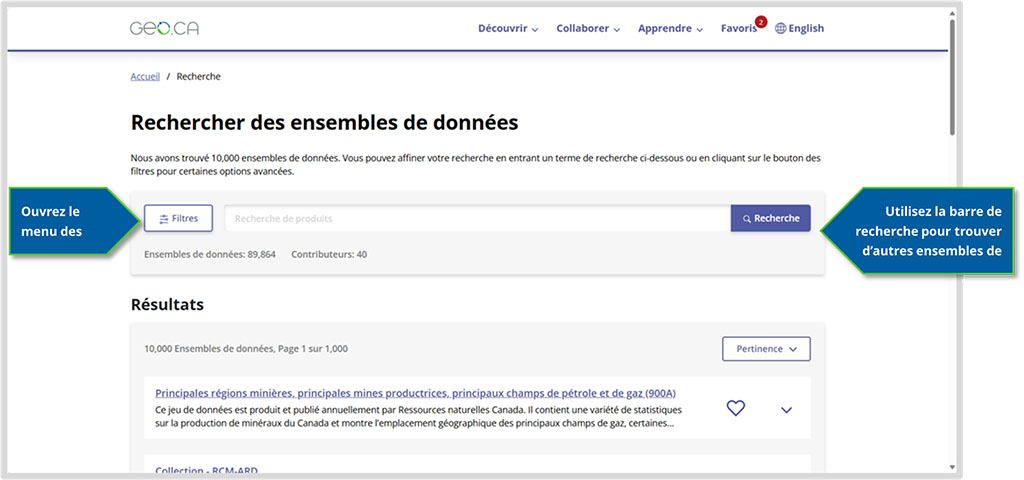
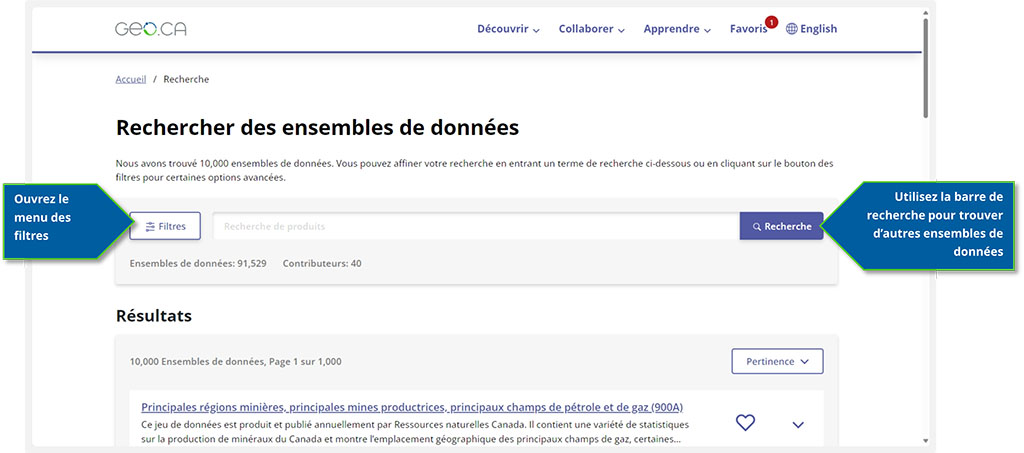
Updated/Added simply-static-1-1756398392

diff --git a/getting-started/index.html b/getting-started/index.html
@@ -691,7 +691,7 @@ body.elementor-page .elementor-widget-menu-anchor{margin-bottom:0}</style>		<div
 <script src="https://dev.geo.ca/wp-content/themes/geo/includes/cgp-mega-menu/vendor/dist/js/jquery-accessibleMegaMenu.min.js?ver=1.0" id="adobe-accessible-mega-menu-jquery-js"></script>
 <script src="https://dev.geo.ca/wp-content/plugins/elementor-cgp-widgets/assets/dist/js/cgp-video-min.js?ver=1.0.0" id="cgp-video-js"></script>
 <script src="https://dev.geo.ca/wp-content/themes/geo/includes/cgp-global/dist/js/cgp-global-min.js?ver=1.0" id="cgp-global-js"></script>
-<script id="eael-general-js-extra">var localize = {"ajaxurl":"https:\/\/dev.geo.ca\/wp-admin\/admin-ajax.php","nonce":"fcad406561","i18n":{"added":"Added ","compare":"Compare","loading":"Loading..."},"eael_translate_text":{"required_text":"is a required field","invalid_text":"Invalid","billing_text":"Billing","shipping_text":"Shipping","fg_mfp_counter_text":"of"},"page_permalink":"https:\/\/dev.geo.ca\/getting-started\/","cart_redirectition":"","cart_page_url":"","el_breakpoints":{"mobile":{"label":"Mobile Portrait","value":767,"default_value":767,"direction":"max","is_enabled":true},"mobile_extra":{"label":"Mobile Landscape","value":880,"default_value":880,"direction":"max","is_enabled":false},"tablet":{"label":"Tablet Portrait","value":1024,"default_value":1024,"direction":"max","is_enabled":true},"tablet_extra":{"label":"Tablet Landscape","value":1200,"default_value":1200,"direction":"max","is_enabled":false},"laptop":{"label":"Laptop","value":1366,"default_value":1366,"direction":"max","is_enabled":false},"widescreen":{"label":"Widescreen","value":2400,"default_value":2400,"direction":"min","is_enabled":false}}};</script>
+<script id="eael-general-js-extra">var localize = {"ajaxurl":"https:\/\/dev.geo.ca\/wp-admin\/admin-ajax.php","nonce":"61e8a9eaff","i18n":{"added":"Added ","compare":"Compare","loading":"Loading..."},"eael_translate_text":{"required_text":"is a required field","invalid_text":"Invalid","billing_text":"Billing","shipping_text":"Shipping","fg_mfp_counter_text":"of"},"page_permalink":"https:\/\/dev.geo.ca\/getting-started\/","cart_redirectition":"","cart_page_url":"","el_breakpoints":{"mobile":{"label":"Mobile Portrait","value":767,"default_value":767,"direction":"max","is_enabled":true},"mobile_extra":{"label":"Mobile Landscape","value":880,"default_value":880,"direction":"max","is_enabled":false},"tablet":{"label":"Tablet Portrait","value":1024,"default_value":1024,"direction":"max","is_enabled":true},"tablet_extra":{"label":"Tablet Landscape","value":1200,"default_value":1200,"direction":"max","is_enabled":false},"laptop":{"label":"Laptop","value":1366,"default_value":1366,"direction":"max","is_enabled":false},"widescreen":{"label":"Widescreen","value":2400,"default_value":2400,"direction":"min","is_enabled":false}}};</script>
 <script src="https://dev.geo.ca/wp-content/plugins/essential-addons-for-elementor-lite/assets/front-end/js/view/general.min.js?ver=5.9.21" id="eael-general-js"></script>
 <script src="https://dev.geo.ca/wp-content/plugins/elementor-pro/assets/js/webpack-pro.runtime.min.js?ver=3.21.2" id="elementor-pro-webpack-runtime-js"></script>
 <script src="https://dev.geo.ca/wp-content/plugins/elementor/assets/js/webpack.runtime.min.js?ver=3.21.4" id="elementor-webpack-runtime-js"></script>
@@ -701,7 +701,7 @@ body.elementor-page .elementor-widget-menu-anchor{margin-bottom:0}</style>		<div
 <script id="wp-i18n-js-after">
 wp.i18n.setLocaleData( { 'text directionltr': [ 'ltr' ] } );
 </script>
-<script id="elementor-pro-frontend-js-before">var ElementorProFrontendConfig = {"ajaxurl":"https:\/\/dev.geo.ca\/wp-admin\/admin-ajax.php","nonce":"e3e43ee766","urls":{"assets":"https:\/\/dev.geo.ca\/wp-content\/plugins\/elementor-pro\/assets\/","rest":"https:\/\/dev.geo.ca\/wp-json\/"},"shareButtonsNetworks":{"facebook":{"title":"Facebook","has_counter":true},"twitter":{"title":"Twitter"},"linkedin":{"title":"LinkedIn","has_counter":true},"pinterest":{"title":"Pinterest","has_counter":true},"reddit":{"title":"Reddit","has_counter":true},"vk":{"title":"VK","has_counter":true},"odnoklassniki":{"title":"OK","has_counter":true},"tumblr":{"title":"Tumblr"},"digg":{"title":"Digg"},"skype":{"title":"Skype"},"stumbleupon":{"title":"StumbleUpon","has_counter":true},"mix":{"title":"Mix"},"telegram":{"title":"Telegram"},"pocket":{"title":"Pocket","has_counter":true},"xing":{"title":"XING","has_counter":true},"whatsapp":{"title":"WhatsApp"},"email":{"title":"Email"},"print":{"title":"Print"},"x-twitter":{"title":"X"},"threads":{"title":"Threads"}},"facebook_sdk":{"lang":"en_CA","app_id":""},"lottie":{"defaultAnimationUrl":"https:\/\/dev.geo.ca\/wp-content\/plugins\/elementor-pro\/modules\/lottie\/assets\/animations\/default.json"}};</script>
+<script id="elementor-pro-frontend-js-before">var ElementorProFrontendConfig = {"ajaxurl":"https:\/\/dev.geo.ca\/wp-admin\/admin-ajax.php","nonce":"f7a65d53a3","urls":{"assets":"https:\/\/dev.geo.ca\/wp-content\/plugins\/elementor-pro\/assets\/","rest":"https:\/\/dev.geo.ca\/wp-json\/"},"shareButtonsNetworks":{"facebook":{"title":"Facebook","has_counter":true},"twitter":{"title":"Twitter"},"linkedin":{"title":"LinkedIn","has_counter":true},"pinterest":{"title":"Pinterest","has_counter":true},"reddit":{"title":"Reddit","has_counter":true},"vk":{"title":"VK","has_counter":true},"odnoklassniki":{"title":"OK","has_counter":true},"tumblr":{"title":"Tumblr"},"digg":{"title":"Digg"},"skype":{"title":"Skype"},"stumbleupon":{"title":"StumbleUpon","has_counter":true},"mix":{"title":"Mix"},"telegram":{"title":"Telegram"},"pocket":{"title":"Pocket","has_counter":true},"xing":{"title":"XING","has_counter":true},"whatsapp":{"title":"WhatsApp"},"email":{"title":"Email"},"print":{"title":"Print"},"x-twitter":{"title":"X"},"threads":{"title":"Threads"}},"facebook_sdk":{"lang":"en_CA","app_id":""},"lottie":{"defaultAnimationUrl":"https:\/\/dev.geo.ca\/wp-content\/plugins\/elementor-pro\/modules\/lottie\/assets\/animations\/default.json"}};</script>
 <script src="https://dev.geo.ca/wp-content/plugins/elementor-pro/assets/js/frontend.min.js?ver=3.21.2" id="elementor-pro-frontend-js"></script>
 <script src="https://dev.geo.ca/wp-content/plugins/elementor/assets/lib/waypoints/waypoints.min.js?ver=4.0.2" id="elementor-waypoints-js"></script>
 <script src="https://dev.geo.ca/wp-includes/js/jquery/ui/core.min.js?ver=1.13.3" id="jquery-ui-core-js"></script>

diff --git a/fr/pour-commencer/index.html b/fr/pour-commencer/index.html
@@ -674,7 +674,7 @@
 <script src="https://dev.geo.ca/wp-content/themes/geo/includes/cgp-mega-menu/vendor/dist/js/jquery-accessibleMegaMenu.min.js?ver=1.0" id="adobe-accessible-mega-menu-jquery-js"></script>
 <script src="https://dev.geo.ca/wp-content/plugins/elementor-cgp-widgets/assets/dist/js/cgp-video-min.js?ver=1.0.0" id="cgp-video-js"></script>
 <script src="https://dev.geo.ca/wp-content/themes/geo/includes/cgp-global/dist/js/cgp-global-min.js?ver=1.0" id="cgp-global-js"></script>
-<script id="eael-general-js-extra">var localize = {"ajaxurl":"https:\/\/dev.geo.ca\/wp-admin\/admin-ajax.php","nonce":"fcad406561","i18n":{"added":"Added ","compare":"Compare","loading":"Loading..."},"eael_translate_text":{"required_text":"is a required field","invalid_text":"Invalid","billing_text":"Billing","shipping_text":"Shipping","fg_mfp_counter_text":"of"},"page_permalink":"https:\/\/dev.geo.ca\/fr\/pour-commencer\/","cart_redirectition":"","cart_page_url":"","el_breakpoints":{"mobile":{"label":"Mobile Portrait","value":767,"default_value":767,"direction":"max","is_enabled":true},"mobile_extra":{"label":"Mobile Landscape","value":880,"default_value":880,"direction":"max","is_enabled":false},"tablet":{"label":"Tablet Portrait","value":1024,"default_value":1024,"direction":"max","is_enabled":true},"tablet_extra":{"label":"Tablet Landscape","value":1200,"default_value":1200,"direction":"max","is_enabled":false},"laptop":{"label":"Laptop","value":1366,"default_value":1366,"direction":"max","is_enabled":false},"widescreen":{"label":"Widescreen","value":2400,"default_value":2400,"direction":"min","is_enabled":false}}};</script>
+<script id="eael-general-js-extra">var localize = {"ajaxurl":"https:\/\/dev.geo.ca\/wp-admin\/admin-ajax.php","nonce":"61e8a9eaff","i18n":{"added":"Added ","compare":"Compare","loading":"Loading..."},"eael_translate_text":{"required_text":"is a required field","invalid_text":"Invalid","billing_text":"Billing","shipping_text":"Shipping","fg_mfp_counter_text":"of"},"page_permalink":"https:\/\/dev.geo.ca\/fr\/pour-commencer\/","cart_redirectition":"","cart_page_url":"","el_breakpoints":{"mobile":{"label":"Mobile Portrait","value":767,"default_value":767,"direction":"max","is_enabled":true},"mobile_extra":{"label":"Mobile Landscape","value":880,"default_value":880,"direction":"max","is_enabled":false},"tablet":{"label":"Tablet Portrait","value":1024,"default_value":1024,"direction":"max","is_enabled":true},"tablet_extra":{"label":"Tablet Landscape","value":1200,"default_value":1200,"direction":"max","is_enabled":false},"laptop":{"label":"Laptop","value":1366,"default_value":1366,"direction":"max","is_enabled":false},"widescreen":{"label":"Widescreen","value":2400,"default_value":2400,"direction":"min","is_enabled":false}}};</script>
 <script src="https://dev.geo.ca/wp-content/plugins/essential-addons-for-elementor-lite/assets/front-end/js/view/general.min.js?ver=5.9.21" id="eael-general-js"></script>
 <script src="https://dev.geo.ca/wp-content/plugins/elementor-pro/assets/js/webpack-pro.runtime.min.js?ver=3.21.2" id="elementor-pro-webpack-runtime-js"></script>
 <script src="https://dev.geo.ca/wp-content/plugins/elementor/assets/js/webpack.runtime.min.js?ver=3.21.4" id="elementor-webpack-runtime-js"></script>
@@ -684,7 +684,7 @@
 <script id="wp-i18n-js-after">
 wp.i18n.setLocaleData( { 'text directionltr': [ 'ltr' ] } );
 </script>
-<script id="elementor-pro-frontend-js-before">var ElementorProFrontendConfig = {"ajaxurl":"https:\/\/dev.geo.ca\/wp-admin\/admin-ajax.php","nonce":"e3e43ee766","urls":{"assets":"https:\/\/dev.geo.ca\/wp-content\/plugins\/elementor-pro\/assets\/","rest":"https:\/\/dev.geo.ca\/wp-json\/"},"shareButtonsNetworks":{"facebook":{"title":"Facebook","has_counter":true},"twitter":{"title":"Twitter"},"linkedin":{"title":"LinkedIn","has_counter":true},"pinterest":{"title":"Pinterest","has_counter":true},"reddit":{"title":"Reddit","has_counter":true},"vk":{"title":"VK","has_counter":true},"odnoklassniki":{"title":"OK","has_counter":true},"tumblr":{"title":"Tumblr"},"digg":{"title":"Digg"},"skype":{"title":"Skype"},"stumbleupon":{"title":"StumbleUpon","has_counter":true},"mix":{"title":"Mix"},"telegram":{"title":"Telegram"},"pocket":{"title":"Pocket","has_counter":true},"xing":{"title":"XING","has_counter":true},"whatsapp":{"title":"WhatsApp"},"email":{"title":"Email"},"print":{"title":"Print"},"x-twitter":{"title":"X"},"threads":{"title":"Threads"}},"facebook_sdk":{"lang":"fr_CA","app_id":""},"lottie":{"defaultAnimationUrl":"https:\/\/dev.geo.ca\/wp-content\/plugins\/elementor-pro\/modules\/lottie\/assets\/animations\/default.json"}};</script>
+<script id="elementor-pro-frontend-js-before">var ElementorProFrontendConfig = {"ajaxurl":"https:\/\/dev.geo.ca\/wp-admin\/admin-ajax.php","nonce":"f7a65d53a3","urls":{"assets":"https:\/\/dev.geo.ca\/wp-content\/plugins\/elementor-pro\/assets\/","rest":"https:\/\/dev.geo.ca\/wp-json\/"},"shareButtonsNetworks":{"facebook":{"title":"Facebook","has_counter":true},"twitter":{"title":"Twitter"},"linkedin":{"title":"LinkedIn","has_counter":true},"pinterest":{"title":"Pinterest","has_counter":true},"reddit":{"title":"Reddit","has_counter":true},"vk":{"title":"VK","has_counter":true},"odnoklassniki":{"title":"OK","has_counter":true},"tumblr":{"title":"Tumblr"},"digg":{"title":"Digg"},"skype":{"title":"Skype"},"stumbleupon":{"title":"StumbleUpon","has_counter":true},"mix":{"title":"Mix"},"telegram":{"title":"Telegram"},"pocket":{"title":"Pocket","has_counter":true},"xing":{"title":"XING","has_counter":true},"whatsapp":{"title":"WhatsApp"},"email":{"title":"Email"},"print":{"title":"Print"},"x-twitter":{"title":"X"},"threads":{"title":"Threads"}},"facebook_sdk":{"lang":"fr_CA","app_id":""},"lottie":{"defaultAnimationUrl":"https:\/\/dev.geo.ca\/wp-content\/plugins\/elementor-pro\/modules\/lottie\/assets\/animations\/default.json"}};</script>
 <script src="https://dev.geo.ca/wp-content/plugins/elementor-pro/assets/js/frontend.min.js?ver=3.21.2" id="elementor-pro-frontend-js"></script>
 <script src="https://dev.geo.ca/wp-content/plugins/elementor/assets/lib/waypoints/waypoints.min.js?ver=4.0.2" id="elementor-waypoints-js"></script>
 <script src="https://dev.geo.ca/wp-includes/js/jquery/ui/core.min.js?ver=1.13.3" id="jquery-ui-core-js"></script>
